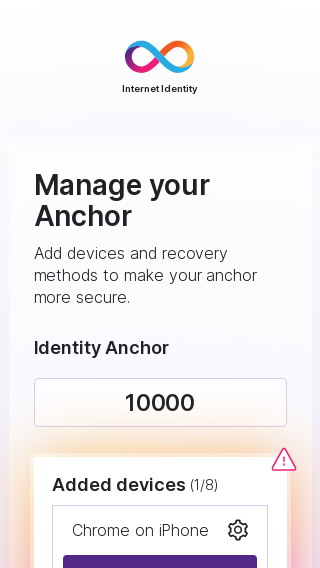
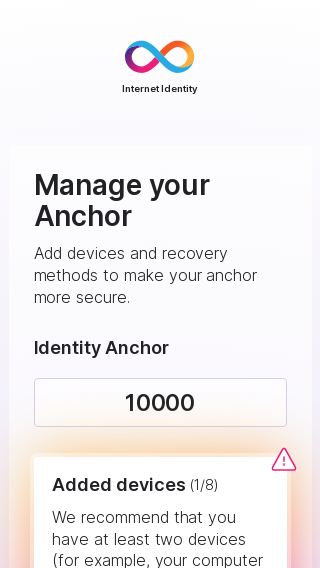
Reorder add device warning (#1188)
* Reorder add device warning

This makes the "add device" warning more consistent with the "add
recovery" warning.

* 🤖 Selenium screenshots auto-update

---------

Changed region(s): [[0.1562, 0.8979, 0.8438, 1.0]]

diff --git a/src/frontend/src/flows/manage/index.ts b/src/frontend/src/flows/manage/index.ts
@@ -163,6 +163,14 @@ const devicesSection = (
             </span>
           </span>
         </div>
+        ${
+          isWarning === true
+            ? html`<p class="warning-message t-paragraph t-lead">
+                We recommend that you have at least two devices (for example,
+                your computer and your phone).
+              </p>`
+            : undefined
+        }
 
         <div class="c-action-list">
           <div id="deviceList"></div>
@@ -182,15 +190,6 @@ const devicesSection = (
           </div>
 
         </div>
-        ${
-          isWarning === true
-            ? html`<p class="warning-message t-paragraph t-lead">
-                <strong class="t-strong">Warning!</strong> We recommend that you
-                have at least two devices (for example, your computer and your
-                phone).
-              </p>`
-            : undefined
-        }
       </div>
     </aside>`;
 };
